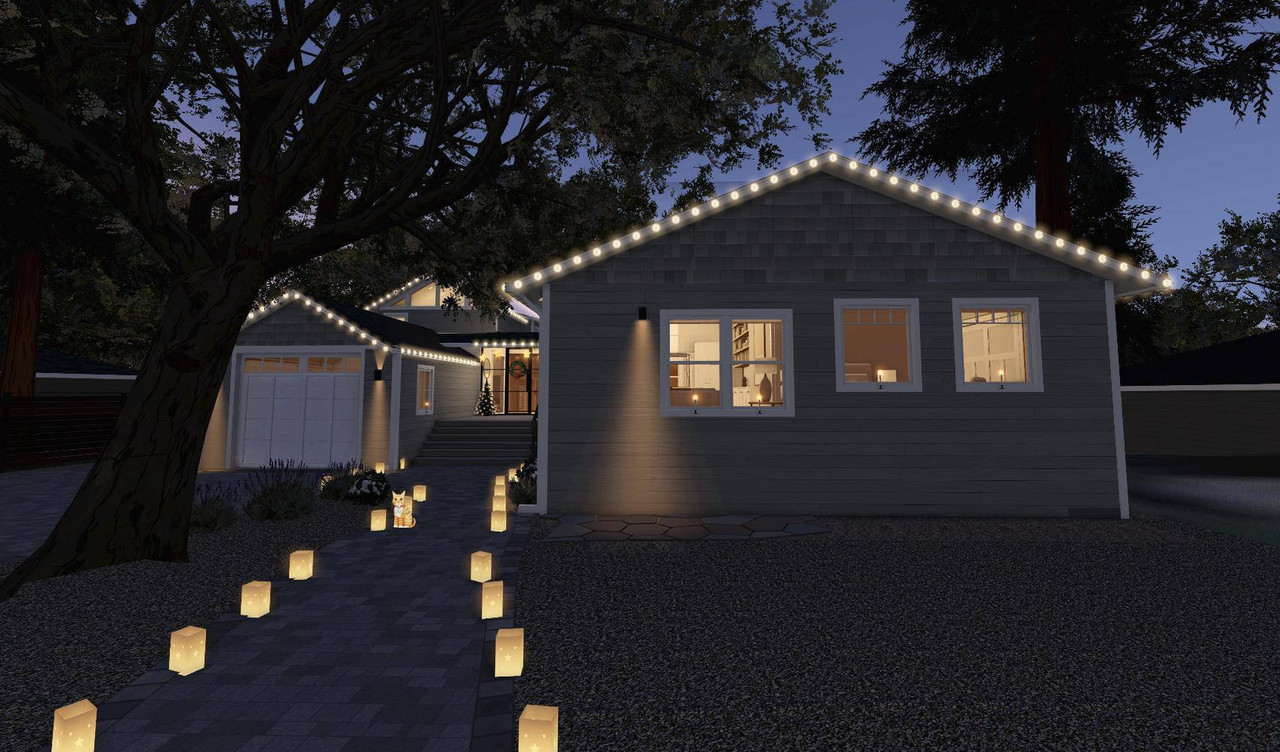
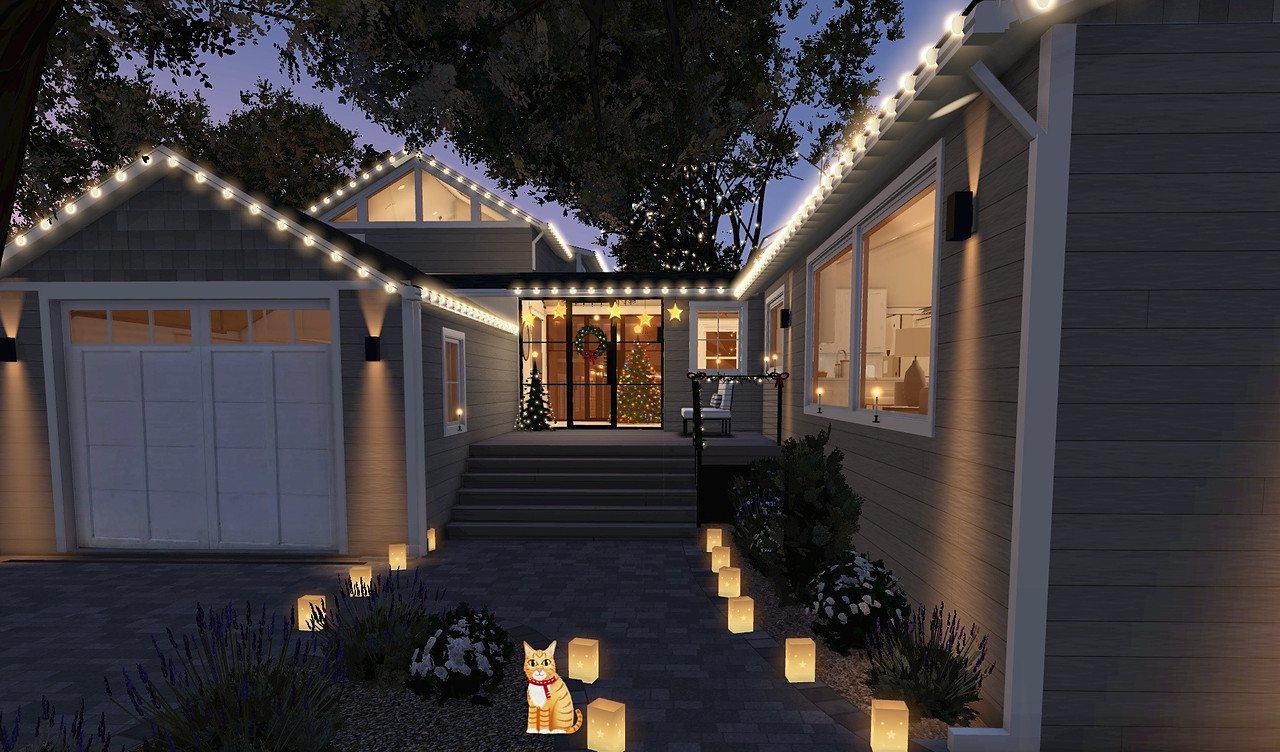
Deck the House pictures from the game's own viewfinder: the front walk at dusk, fully dressed
Warm roof lights, evergreen wreath and stars at the doors, a fir in the window, lanterns and garland up
the walk, the oak lit behind, and Snowball in a red scarf. Cut from the photo-mode frame, so it is the
postcard picture; no road in it.

Claude-Session: https://claude.ai/code/session_01Hxt75sfKTMFyJxUTwDrGyS

diff --git a/index.html b/index.html
@@ -496,7 +496,7 @@ footer p { margin: 0 0 8px; max-width: 900px; }
      eyebrow:'An escape room in 3D', title:'Locked In at Hillside', sub:'Snowball has locked the champagne in the fridge. Slide the doors, move the sun across the sky, and read what the light through the windows is telling you.', go:'Start the clock'},
     {id:'feast', from:'11-01', to:'11-27', href:'games/feast/', img:'images/feast-hero.jpg', alt:'The dinner table on the terrace at 118 Hillside Drive at dusk, with candles lit and letter tags that spell THANKS',
      eyebrow:'A dinner hunt in 3D', title:'Thanksgiving at Hillside', sub:'Snowball the cat put dinner away, so it is hidden all over the house. Follow the clues from room to room, then carry it all out to the table under the oak.', go:'Start the hunt'},
-    {id:'deck', from:'11-20', to:'12-31', href:'games/deck/', img:'images/deck-hero.jpg', alt:'118 Hillside Drive at dusk, decorated for the holidays with lights along the roofline and the front walk',
+    {id:'deck', from:'11-20', to:'12-31', href:'games/deck/', img:'images/deck-hero.jpg', alt:'118 Hillside Drive at dusk from the front walk, decorated for the holidays: lights along the roofline, a wreath and a tree at the front doors, paper lanterns up the walk, and Snowball the cat in a red scarf',
      eyebrow:'A holiday story you decorate', title:'Deck the House with Snowball', sub:'Company is coming tonight and bringing their animals, and every animal has a request. Decorate the real house in 3D, light it up at sunset, and see who is happy.', go:'Start decorating'}
   ];
   var dots = document.getElementById('rotDots');

diff --git a/games/index.html b/games/index.html
@@ -157,7 +157,7 @@ var SEASONS = [
   { id:'thanksgiving', from:'11-01', to:'11-27', href:'/games/feast/', img:'/images/feast-hero.jpg', alt:'The dinner table on the terrace at 118 Hillside Drive at dusk, with candles lit and letter tags that spell THANKS', age:'Ages 7 and up',
     bg:'linear-gradient(135deg,#3a2414,#8a4b1c 55%,#d99a3c)', btn:'#ffd27a', btnInk:'#2a1806', icon:'🦃',
     title:'Thanksgiving at Hillside', sub:'Snowball the cat put dinner away, so it is hidden all over the house. Follow the clues through the 3D model, carry every dish out to the table under the oak, and light the candles.', go:'Start the hunt' },
-  { id:'holidays', from:'11-28', to:'01-06', href:'/games/deck/', img:'/images/deck-hero.jpg', alt:'118 Hillside Drive at dusk, decorated for the holidays with lights along the roofline and the front walk', age:'All ages',
+  { id:'holidays', from:'11-28', to:'01-06', href:'/games/deck/', img:'/images/deck-hero.jpg', alt:'118 Hillside Drive at dusk from the front walk, decorated for the holidays: lights along the roofline, a wreath and a tree at the front doors, paper lanterns up the walk, and Snowball the cat in a red scarf', age:'All ages',
     bg:'linear-gradient(135deg,#141c33,#26326a 55%,#5a3b6e)', btn:'#e8b84a', btnInk:'#2a1d07', icon:'✨',
     title:'Deck the House with Snowball', sub:'Company is coming tonight and bringing their animals, and every animal has a request. Decorate the real house in 3D however you celebrate, light it up at sunset, and see who is happy.', go:'Start decorating' }
 ];

diff --git a/games/deck/index.html b/games/deck/index.html
@@ -13,7 +13,7 @@
 <meta property="og:image" content="https://118hillside.com/images/deck-preview.jpg">
 <meta property="og:image:width" content="1200">
 <meta property="og:image:height" content="630">
-<meta property="og:image:alt" content="118 Hillside Drive at dusk, decorated for the holidays with lights along the roofline and the front walk">
+<meta property="og:image:alt" content="118 Hillside Drive at dusk from the front walk, decorated for the holidays: lights along the roofline, a wreath and a tree at the front doors, paper lanterns up the walk, and Snowball the cat in a red scarf">
 <meta name="twitter:card" content="summary_large_image">
 <meta name="twitter:title" content="Deck the House with Snowball | 118 Hillside Drive">
 <meta name="twitter:description" content="Decorate a real Woodside house for the holidays in 3D with an orange tabby named Snowball, then light it up at dusk.">
